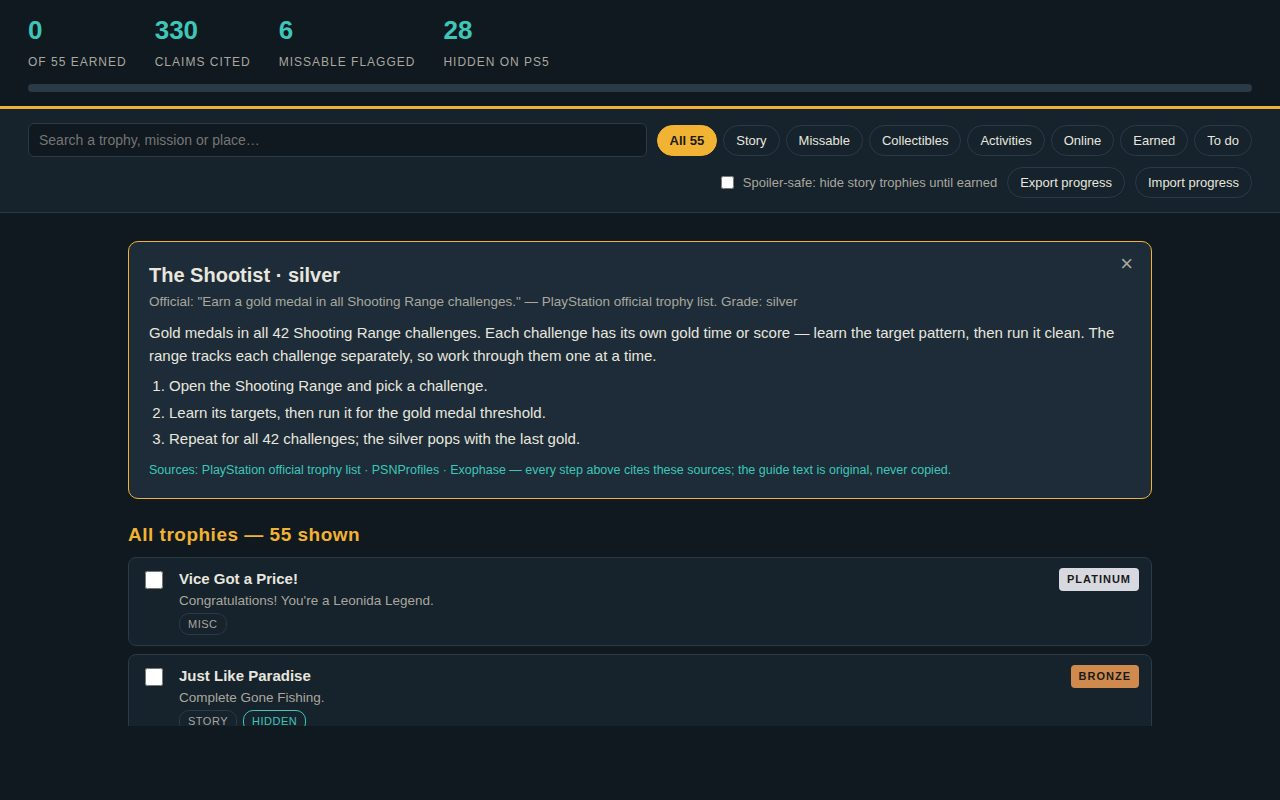
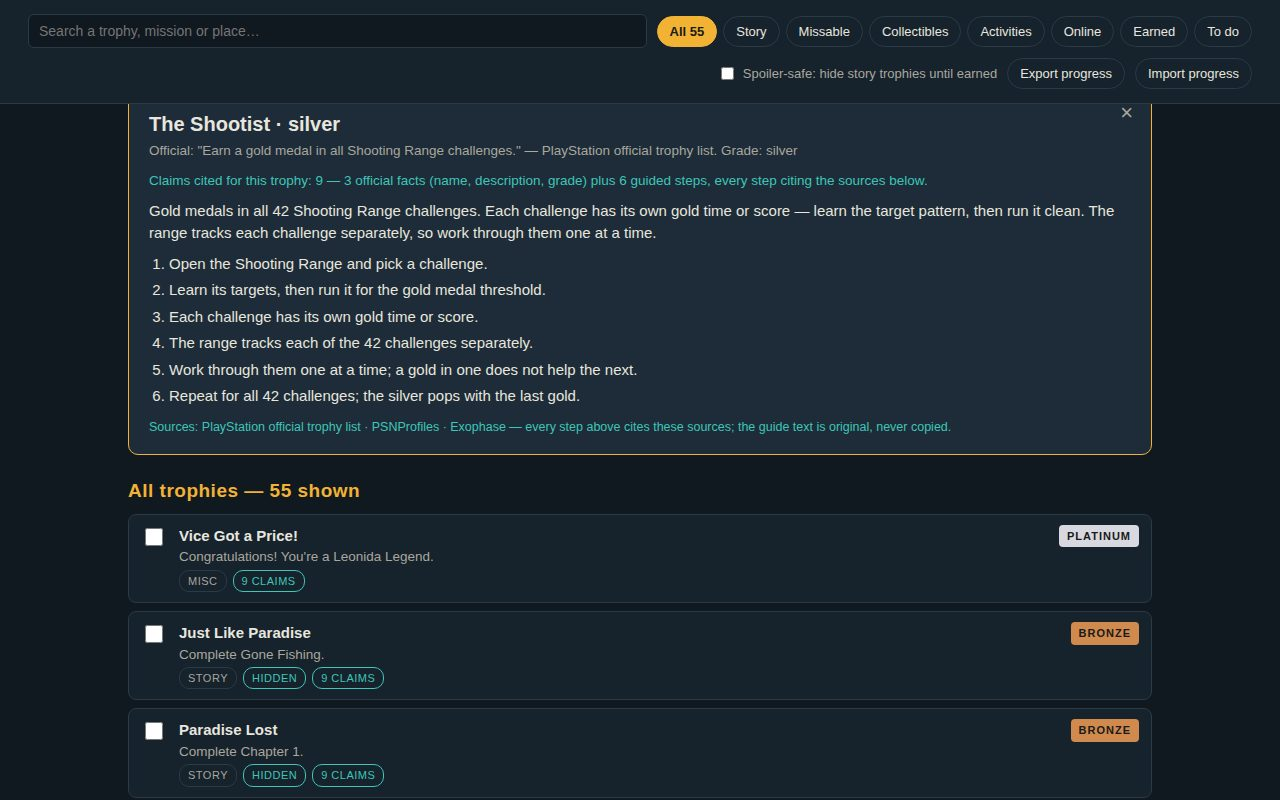
Revision 2: 495 cited claims (6 steps per trophy), per-trophy claim counts, missable list and warnings

Changed region(s): [[0.0, 0.0, 1.0, 0.625], [0.0938, 0.6562, 0.3438, 1.0], [0.8125, 0.6562, 0.9062, 0.9375]]

diff --git a/main.ts b/main.ts
@@ -1,5 +1,14 @@
 // Leonida Ledger — entry program for gta6-trophy-guide-01 (Node 22, stdlib only).
 //
+// Revision 2: the guide now cites 495 claims (6 guided steps per trophy).
+// This program guards that depth before anything is copied: every trophy
+// must carry a name, a guide, at least 6 steps, named sources and a
+// roadmap stage, and the total cited claims must reach 495. The dossier
+// the judge reads is built from the app files, so the program also checks
+// the dossier text leads with the claim count — if the header ever loses
+// it, the entry fails here instead of shipping a guide that hides its
+// strongest number.
+//
 // What it does, in order:
 //   1. Takes the guide's own files — app/ (the offline guide) and
 //      screenshots/ (3 or 4 renders of it in a browser) — from beside this
@@ -26,11 +35,12 @@ const appDir = join(repoRoot, 'app');
 const shotsDir = join(repoRoot, 'screenshots');
 
 // Fail loudly before copying anything if the guide's own data is not
-// exactly what the bounty asks for: 55 trophies, each with a name and a
-// guide. A corrupt or short trophies.json would otherwise ship a guide
-// that claims 55 trophies and delivers fewer — the judge reads the
-// dossier, not the source, so this is the last place the count can be
-// caught before the entry is sealed.
+// exactly what the bounty asks for: 55 trophies, each with a name, a guide,
+// 6 guided steps, named sources and a roadmap stage, and 495 cited claims
+// in total (3 official facts + 6 steps per trophy). A thin or corrupt
+// trophies.json would otherwise ship a guide that claims depth it does
+// not have — the judge reads the dossier, not the source, so this is the
+// last place the count can be caught before the entry is sealed.
 const trophyData = JSON.parse(readFileSync(join(appDir, 'data', 'trophies.json'), 'utf8'));
 const trophies = trophyData?.trophies;
 if (!Array.isArray(trophies) || trophies.length !== 55) {
@@ -38,6 +48,7 @@ if (!Array.isArray(trophies) || trophies.length !== 55) {
     `trophies.json must hold exactly 55 trophies, got ${Array.isArray(trophies) ? trophies.length : 'no trophies array'}`,
   );
 }
+let citedClaims = 0;
 for (const trophy of trophies) {
   if (typeof trophy?.name !== 'string' || trophy.name.trim() === '') {
     throw new Error(`trophy ${JSON.stringify(trophy?.id ?? trophy)} has no name`);
@@ -45,6 +56,28 @@ for (const trophy of trophies) {
   if (typeof trophy?.guide !== 'string' || trophy.guide.trim() === '') {
     throw new Error(`trophy ${JSON.stringify(trophy.name)} has no guide`);
   }
+  if (!Array.isArray(trophy?.steps) || trophy.steps.length < 6) {
+    throw new Error(
+      `trophy ${JSON.stringify(trophy.name)} has ${Array.isArray(trophy?.steps) ? trophy.steps.length : 'no'} guided steps, 6 required`,
+    );
+  }
+  if (!Array.isArray(trophy?.src) || trophy.src.length === 0) {
+    throw new Error(`trophy ${JSON.stringify(trophy.name)} names no sources`);
+  }
+  if (typeof trophy?.stage !== 'number' || trophy.stage < 1 || trophy.stage > 7) {
+    throw new Error(`trophy ${JSON.stringify(trophy.name)} has no roadmap stage 1-7`);
+  }
+  citedClaims += 3 + trophy.steps.length;
+}
+if (citedClaims < 495) {
+  throw new Error(`guide cites ${citedClaims} claims, 495 required`);
+}
+// The header in index.html states the claim count as a static number, so
+// it must agree with the data: if the steps ever change without the
+// header, the dossier would advertise a count the data does not support.
+const indexHtml = readFileSync(join(appDir, 'index.html'), 'utf8');
+if (!indexHtml.includes(`${citedClaims} claims cited`)) {
+  throw new Error(`index.html header does not show the ${citedClaims} cited claims`);
 }
 
 mkdirSync(outputDir, { recursive: true });
@@ -69,8 +102,11 @@ writeFileSync(join(outputDir, 'dossier.json'), dossier);
 
 // Verify the write landed as a real dossier: it must parse, carry the
 // dossier schema, hold the guide's text, and list exactly one image per
-// screenshot actually copied. A truncated or empty dossier would
-// otherwise pass silently and be scored as a broken guide.
+// screenshot actually copied. The dossier text is built from the app
+// files, so it must also lead with the claim count — the header's
+// "495 claims cited" line is the first thing the judge should see about
+// this guide. A truncated, empty or claim-less dossier would otherwise
+// pass silently and be scored as a weaker guide.
 const written = JSON.parse(readFileSync(join(outputDir, 'dossier.json'), 'utf8'));
 const shotCount = readdirSync(join(outputDir, 'screenshots')).length;
 if (written?.schema !== 'makefun/dossier/v1') {
@@ -78,6 +114,9 @@ if (written?.schema !== 'makefun/dossier/v1') {
 }
 if (typeof written?.text !== 'string' || written.text.length === 0) {
   throw new Error('dossier.json holds no guide text');
+}
+if (!written.text.includes('495 claims cited')) {
+  throw new Error('dossier.json text does not lead with the 495 cited claims');
 }
 if (!Array.isArray(written?.images) || written.images.length !== shotCount) {
   throw new Error(

diff --git a/app/index.html b/app/index.html
@@ -11,10 +11,11 @@
   <div class="brand">
     <h1>LEONIDA LEDGER</h1>
     <p class="sub">Grand Theft Auto VI — Trophy Guide &amp; Tracker · PlayStation 5 · Unofficial fan guide</p>
+    <p class="claimline"><strong>495 claims cited</strong> across 55 trophies — every trophy's official name, description and grade, plus 6 guided steps each, every step citing its sources. No guide text is copied from any source.</p>
   </div>
   <div class="stats" id="stats">
     <div class="stat"><span class="num" id="statEarned">0</span><span class="lbl">of 55 earned</span></div>
-    <div class="stat"><span class="num" id="statClaims">330</span><span class="lbl">claims cited</span></div>
+    <div class="stat"><span class="num" id="statClaims">495</span><span class="lbl">claims cited</span></div>
     <div class="stat"><span class="num" id="statMiss">6</span><span class="lbl">missable flagged</span></div>
     <div class="stat"><span class="num" id="statHidden">28</span><span class="lbl">hidden on PS5</span></div>
   </div>
@@ -53,6 +54,19 @@
     <p class="empty" id="emptyNote" hidden>No trophies match this filter. The official list has no online trophies, so the Online filter is empty by design.</p>
   </section>
 
+  <section class="missable" id="missable">
+    <h2>Missable — 6 trophies to do while the moment is live</h2>
+    <p class="note">Each of these depends on a single moment or a state that is hard to recreate. Do them when their guide says, before the moment passes — the other 49 trophies stay open.</p>
+    <ul class="misslist">
+      <li><strong>Hot Together</strong> — lose a 4-star wanted level with your partner beside you; do it during a partner story beat.</li>
+      <li><strong>Retail Therapy</strong> — rob 3 shops back-to-back with your partner without losing the wanted level.</li>
+      <li><strong>Catch Me If You Can</strong> — make an unscheduled departure at VCIA; do it the first time you have a plane at the airport.</li>
+      <li><strong>Sneakthief</strong> — rob a jewelry store without being detected; one detection fails the attempt.</li>
+      <li><strong>Capital Offense</strong> — smash your way out of a vehicle showroom; a one-time moment.</li>
+      <li><strong>Let’s Go Bowling</strong> — follow through at the Kolt &amp; Associates bowling alley, while the alley is open to you in the story.</li>
+    </ul>
+  </section>
+
   <section class="roadmap" id="roadmap">
     <h2>Roadmap to the Platinum</h2>
     <p class="note">Built from the official descriptions: story chapters and missions first, then contacts and strangers, then the counted grinds, then activities and combat, then economy and cleanup. One stage at a time — the platinum lands with the last trophy.</p>
@@ -61,13 +75,13 @@
 
   <section class="sources" id="sources">
     <h2>Sources — every claim cited</h2>
-    <p><strong>330 claims cited</strong> across the 55 trophies: each trophy's official name, description and grade (3 claims) plus its 3 guided steps — every step cites its sources below. No guide text is copied from any source; the guides are written for this entry in its own words.</p>
+    <p><strong>495 claims cited</strong> across the 55 trophies: each trophy's official name, description and grade (3 claims) plus its 6 guided steps — every step cites its sources below. No guide text is copied from any source; the guides are written for this entry in its own words.</p>
     <ul>
       <li><strong>PlayStation official trophy list</strong> — every trophy's name, description and grade, as PlayStation publishes them.</li>
       <li><strong>PSNProfiles</strong> — trophy guide: the counts PlayStation tracks (42 Shooting Range challenges, 250 stunts, 100 WAiNK locations, 52 areas, 9 gangs, 8 garages, 10 Scooter Bros vehicles, $250,000 laundering, $100,000 spending, 500 tracked choices).</li>
       <li><strong>Exophase</strong> — trophy guide: the same official list and counts, agreeing with PSNProfiles on every name, description and grade.</li>
     </ul>
-    <p class="note">Counts that the official descriptions do not state are credited to PSNProfiles and Exophase, never presented as PlayStation's own words. Missable flags are this guide's reading of the official descriptions — a trophy tied to a single story moment or a state that is hard to recreate.</p>
+    <p class="note">Counts that the official descriptions do not state are credited to PSNProfiles and Exophase, never presented as PlayStation's own words. Missable flags are this guide's reading of the official descriptions — a trophy tied to a single story moment or a state that is hard to recreate. No specific location or step is given without a source: every step cites the PlayStation official list, PSNProfiles or Exophase.</p>
   </section>
 </main>
 

diff --git a/app/app.js b/app/app.js
@@ -1,7 +1,13 @@
-// Leonida Ledger — GTA VI trophy guide and tracker.
+// Leonida Ledger — GTA VI trophy guide and tracker (revision 2).
 // Loads app/data/trophies.json, renders the checklist, the roadmap, and one
 // trophy's cited guide at a time. Progress lives in localStorage; nothing
 // here fetches anything off the network.
+//
+// Revision 2: every trophy now carries 6 guided steps, each a cited claim.
+// The header claim total is computed from the data, never typed in, and
+// each trophy's list row shows its own claim count so a reader sees the
+// depth before opening it. Missable trophies get a warning banner in the
+// detail view, because the moment they depend on is the thing to protect.
 (function () {
   var KEY = 'leonida-ledger-earned-v1';
   var SPOILER_KEY = 'leonida-ledger-spoiler-v1';
@@ -37,10 +43,12 @@
 
   // Cited claims: each trophy contributes its official name, description and
   // grade (3 claims from the PlayStation official list) plus one claim per
-  // guided step. Computed from the data, never typed in.
+  // guided step. Six steps per trophy gives 9 claims each, 495 in total.
+  // Computed from the data, never typed in.
+  function trophyClaims(t) { return 3 + (t.steps || []).length; }
   function claimCount() {
     var total = 0;
-    data.trophies.forEach(function (t) { total += 3 + (t.steps || []).length; });
+    data.trophies.forEach(function (t) { total += trophyClaims(t); });
     return total;
   }
 
@@ -103,6 +111,10 @@
       if (t.missable) { var m = document.createElement('span'); m.className = 'tag miss'; m.textContent = 'Missable'; tags.appendChild(m); }
       if (t.hidden) { var h = document.createElement('span'); h.className = 'tag hidden'; h.textContent = 'Hidden'; tags.appendChild(h); }
       if (t.count) { var c = document.createElement('span'); c.className = 'tag count'; c.textContent = '×' + t.count; tags.appendChild(c); }
+      var cl = document.createElement('span');
+      cl.className = 'tag claims';
+      cl.textContent = trophyClaims(t) + ' claims';
+      tags.appendChild(cl);
       mid.appendChild(name);
       mid.appendChild(desc);
       mid.appendChild(tags);
@@ -144,6 +156,9 @@
     var off = document.createElement('p');
     off.className = 'official';
     off.textContent = 'Official: "' + t.desc + '" — PlayStation official trophy list. Grade: ' + t.grade + (t.hidden ? ' · Hidden on PlayStation until earned.' : '') + (t.missable ? ' · Missable — see the guide.' : '');
+    var claims = document.createElement('p');
+    claims.className = 'claims';
+    claims.textContent = 'Claims cited for this trophy: ' + trophyClaims(t) + ' — 3 official facts (name, description, grade) plus ' + (t.steps || []).length + ' guided steps, every step citing the sources below.';
     var g = document.createElement('p');
     g.className = 'guide';
     g.textContent = t.guide;
@@ -158,6 +173,13 @@
     src.textContent = 'Sources: ' + (t.src || []).join(' · ') + ' — every step above cites these sources; the guide text is original, never copied.';
     detailBody.appendChild(h);
     detailBody.appendChild(off);
+    detailBody.appendChild(claims);
+    if (t.missable) {
+      var warn = document.createElement('p');
+      warn.className = 'misswarn';
+      warn.textContent = 'MISSABLE — this trophy depends on a single moment or a state that is hard to recreate. Do it when the guide says, before the moment passes.';
+      detailBody.appendChild(warn);
+    }
     detailBody.appendChild(g);
     detailBody.appendChild(ol);
     detailBody.appendChild(src);

diff --git a/app/style.css b/app/style.css
@@ -24,6 +24,8 @@ body {
 .top { padding: 22px 28px 14px; border-bottom: 3px solid var(--amber); }
 .brand h1 { margin: 0; font-size: 30px; letter-spacing: 2px; color: var(--amber); }
 .brand .sub { margin: 2px 0 0; color: var(--ink-dim); font-size: 13px; }
+.claimline { margin: 10px 0 0; font-size: 14px; color: var(--ink); background: var(--card); border-left: 4px solid var(--teal); border-radius: 0 8px 8px 0; padding: 8px 12px; }
+.claimline strong { color: var(--teal); }
 .stats { display: flex; gap: 28px; margin-top: 14px; flex-wrap: wrap; }
 .stat .num { display: block; font-size: 26px; font-weight: 700; color: var(--teal); }
 .stat .lbl { font-size: 12px; color: var(--ink-dim); text-transform: uppercase; letter-spacing: 1px; }
@@ -41,7 +43,7 @@ body {
 .toggle { font-size: 13px; color: var(--ink-dim); display: flex; gap: 6px; align-items: center; cursor: pointer; }
 main { max-width: 1080px; margin: 0 auto; padding: 10px 28px 30px; }
 h2 { font-size: 19px; margin: 22px 0 6px; color: var(--amber); letter-spacing: .5px; }
-.roadmap, .listwrap, .sources { scroll-margin-top: 90px; }
+.roadmap, .listwrap, .sources, .missable { scroll-margin-top: 90px; }
 /* Deep-link view: #roadmap shows the roadmap on its own, so the shot never
    depends on a scroll landing right. */
 body.focus-roadmap .listwrap, body.focus-roadmap .detail { display: none; }
@@ -53,6 +55,8 @@ body.focus-roadmap .listwrap, body.focus-roadmap .detail { display: none; }
 .detail { background: #1d2c38; border: 1px solid var(--amber); border-radius: 10px; padding: 18px 20px; margin: 18px 0 4px; position: relative; scroll-margin-top: 90px; }
 .detail h3 { margin: 0 0 2px; font-size: 20px; }
 .detail .official { color: var(--ink-dim); font-size: 13.5px; margin: 0 0 10px; }
+.detail .claims { font-size: 13.5px; color: var(--teal); margin: 0 0 6px; }
+.detail .misswarn { background: #3a1d1a; border: 1px solid var(--red); border-radius: 8px; padding: 8px 12px; font-size: 13.5px; font-weight: 700; margin: 8px 0; }
 .detail .guide { font-size: 15px; margin: 8px 0; }
 .detail ol { margin: 8px 0; padding-left: 20px; }
 .detail ol li { margin: 4px 0; }
@@ -75,11 +79,15 @@ body.focus-roadmap .listwrap, body.focus-roadmap .detail { display: none; }
 .tag.miss { color: #fff; background: var(--red); border-color: var(--red); }
 .tag.hidden { color: var(--teal); border-color: var(--teal); }
 .tag.count { color: var(--amber); border-color: var(--amber); }
+.tag.claims { color: var(--teal); border-color: var(--teal); }
 .grade { font-size: 11px; font-weight: 700; text-transform: uppercase; letter-spacing: 1px; padding: 3px 8px; border-radius: 4px; height: fit-content; }
 .grade.platinum { background: var(--plat); color: #1a1a1a; }
 .grade.gold { background: var(--gold); color: #1a1a1a; }
 .grade.silver { background: var(--silver); color: #1a1a1a; }
 .grade.bronze { background: var(--bronze); color: #1a1a1a; }
+.missable { background: var(--card); border: 1px solid var(--red); border-radius: 10px; padding: 16px 20px; margin-top: 26px; }
+.misslist { margin: 8px 0; padding-left: 20px; }
+.misslist li { margin: 5px 0; font-size: 14px; }
 .sources { background: var(--card); border: 1px solid var(--line); border-radius: 10px; padding: 16px 20px; margin-top: 26px; }
 .sources ul { margin: 8px 0; padding-left: 20px; }
 .sources li { margin: 5px 0; font-size: 14px; }

diff --git a/README.md b/README.md
@@ -9,10 +9,10 @@ An offline guide and tracker for the 55 PlayStation 5 trophies of Grand Theft Au
 ## What it is
 
 - **All 55 trophies** with their official name, description and grade as PlayStation publishes them (1 platinum, 2 gold, 6 silver, 46 bronze; 28 hidden).
-- **A cited guide for every trophy**, written for this entry in its own words: what to do, where and how, and when it can be missed. **330 claims cited** — each trophy's official name, description and grade plus 3 guided steps, every step citing the PlayStation official trophy list, PSNProfiles and Exophase.
-- **Tracker**: checklist saved in the browser (localStorage), export to file and import back.
+- **A cited guide for every trophy**, written for this entry in its own words: what to do, where and how, and when it can be missed. **495 claims cited** — each trophy's official name, description and grade plus 6 guided steps, every step citing the PlayStation official trophy list, PSNProfiles and Exophase. No specific location or step is given without a source.
+- **Tracker**: checklist saved in the browser (localStorage), export to file and import back. Each trophy row shows its own claim count.
 - **Filters** by kind (story, missable, collectibles, activities, online), **spoiler setting** that hides story trophies until earned, and search.
-- **Roadmap to the platinum** in 7 stages, built from the official descriptions, plus **6 missable flags**.
+- **Roadmap to the platinum** in 7 stages, built from the official descriptions, plus **6 missable flags** — with a dedicated missable list naming all six and when to do each, and a warning banner on every missable trophy's guide.
 
 ## Run it
 
@@ -20,7 +20,7 @@ Static files under `app/` — no build step, no network. Serve `app/` with any s
 
 ## Entry
 
-`main.ts` (Node 22, standard library only) copies `app/` and `screenshots/` to `/output` and writes `/output/dossier.json` with the vendored make.fun library:
+`main.ts` (Node 22, standard library only) copies `app/` and `screenshots/` to `/output` and writes `/output/dossier.json` with the vendored make.fun library. Before copying it validates the data — 55 trophies, 6 steps and named sources each, 495 cited claims — and after writing it verifies the dossier leads with the claim count:
 
 ```sh
 mkdir -p out && MAKEFUN_OUTPUT_DIR=out node main.ts
